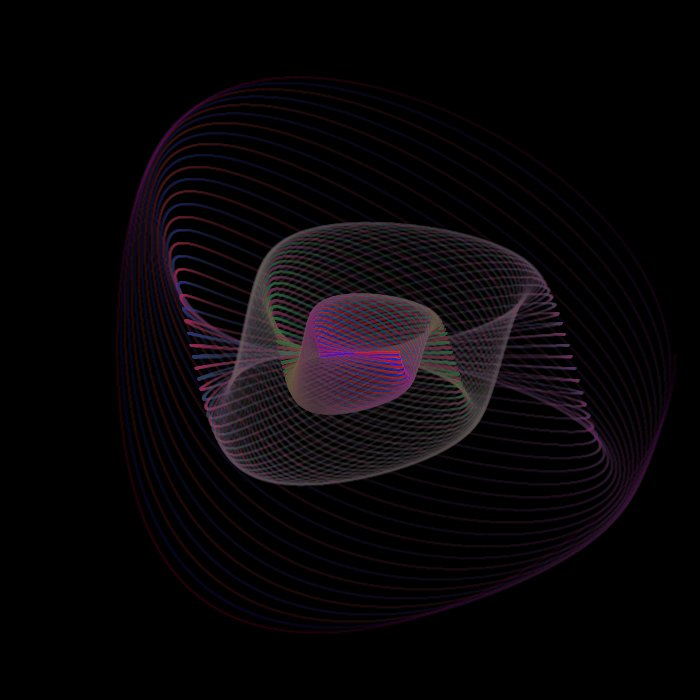
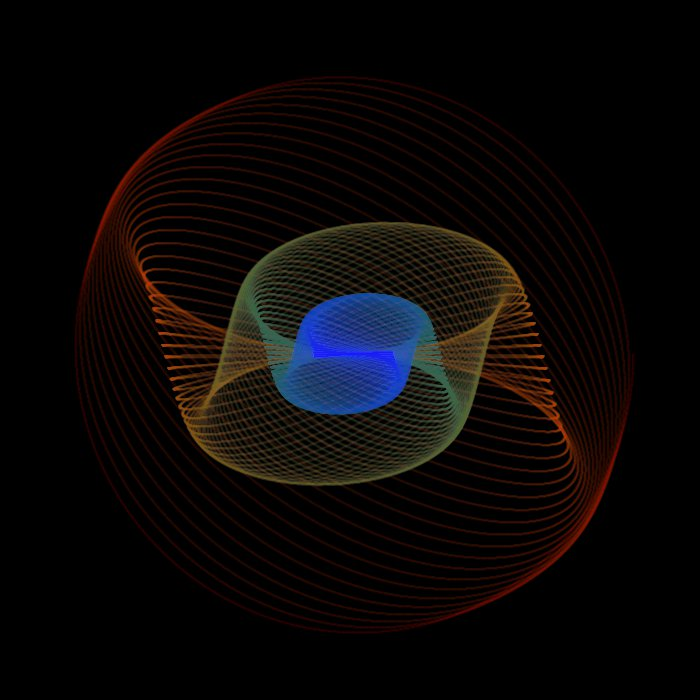
User defined color and coord placement, yey

diff --git a/src/coords_collection.py b/src/coords_collection.py
@@ -4,9 +4,10 @@ import math
 import sys
 import pygame
 from create_coords import COORDS_FUNCTIONS
+from userdefined_coordinate_creators import USER_COORDS_FUNCTIONS
 
 class COORDS:
-    def __init__(self, ins, coords_version = 0, color_version = 0):
+    def __init__(self, ins, coords_version = 0, user_coord = False, color_version = 0, user_color = False):
 
         self.l1_a = float(ins[0])
         self.l2_a = float(ins[1])
@@ -39,8 +40,16 @@ class COORDS:
         self.table_ya = self.table_ya_def
         self.t = 0
 
-        self.coords, self.get_color = COORDS_FUNCTIONS.fetch_functions(self, coords_version, color_version)
-    
+        coords, get_color = COORDS_FUNCTIONS.fetch_functions(self)
+        u_coords, u_get_color = USER_COORDS_FUNCTIONS.fetch_functions(self)
+        if not user_coord:
+            self.coords = coords[coords_version]
+        else:
+            self.coords = u_coords[coords_version]
+        if not user_color:
+            self.get_color = get_color[color_version]
+        else:
+            self.get_color = u_get_color[color_version]
 
     def get_size(self):
         return (self.size_x, self.size_y)

diff --git a/src/graph_simulation.py b/src/graph_simulation.py
@@ -16,6 +16,17 @@ def main():
     pygame.init()
     ins = open(sys.argv[1], "r").readlines()
     outs = sys.argv[2]
+    user_coords = False
+    if sys.argv[3][0] == "u":
+        user_coords = True
+        sys.argv[3] = sys.argv[3][1:]
+        
+    user_color = False
+    if sys.argv[4][0] == "u":
+        user_color = True
+        sys.argv[4] = sys.argv[4][1:]
+        print(sys.argv[4])
+
     version = int(sys.argv[3])
     color_version = int(sys.argv[4])
     strike_through = False
@@ -24,12 +35,12 @@ def main():
         if strike_through_num > 0:
             strike_through = True
 
-    brush_path = "src/yellowbrush.png"
+    brush_path = "src/brush.png"
     if len(sys.argv) > 6:
         brush_path = sys.argv[6] 
 
     
-    simulation = coords_collection.COORDS(ins,version,color_version)
+    simulation = coords_collection.COORDS(ins,version,user_coords,color_version,user_color)
 
     main_screen = pygame.display.set_mode(simulation.get_size())
     main_screen.fill((0, 0, 0))

diff --git a/src/create_coords.py b/src/create_coords.py
@@ -2,7 +2,7 @@
 import math
 
 class COORDS_FUNCTIONS:
-    def fetch_functions(coords, coord_version, color_version):
+    def fetch_functions(coords):
         def c0():
             x = coords.size_x / 2 + (coords.size_x / 2 * ((math.cos(coords.t * coords.p1_t + coords.p1_off)) * coords.p1_a))
             y = coords.size_y / 2 + (coords.size_y / 2 * ((math.sin(coords.t * coords.p2_t + coords.p2_off)) * coords.p2_a))
@@ -62,4 +62,4 @@ class COORDS_FUNCTIONS:
  
         color_d = {0: color0, 1: color1, 2: color2}
         c_d = {0: c0, 1: c1, 2: c2, 3: c3}
-        return c_d[coord_version], color_d[color_version]
+        return c_d, color_d

diff --git a/README.md b/README.md
@@ -10,7 +10,11 @@ While standing in the root directory, run
 `python3 main.py nicesimulations/s14.in pics/newPicture1.jpeg 3 1 0 src/brush.png`
 
 If this works, good.
-`main.py` is the root program, then we have the input simulation settings file (please write your own ones), then the location where to save the outputed image. The first number is which of the coordination generators to use, where `0` is the simplest one. The second number is the color scheme used, where some exists already (like.. 0-2). The third number is how long part-lines should be, where a value of zero gives continuous lines. The last one is if you want to have a custom brush. Remember, its an 8x8 pixel sized png with transperency. The size of the generated image is for now set in the input file, which will be moved later.
+`main.py` is the root program, then we have the input simulation settings file (please write your own ones), then the location where to save the outputed image. The first number is which of the coordination generators to use, where `0` is the simplest one. The second number is the color scheme used, where some exists already (like.. 0-2). The third number is how long part-lines should be, where a value of zero gives continuous lines. Worth noting !If you add your custom coordinate or color to the user_defined file, you can access those by placin a "u" in front of the number!. The last one is if you want to have a custom brush. Remember, its an 8x8 pixel sized png with transperency. The size of the generated image is for now set in the input file, which will be moved later.
 
 The simulation runs to the end, and is exited via the terminal. Crude, but it works.
-Only one color scheme is available for now. Will be customizeable later on.
+Only one color scheme is available for now. Will be customizeable later on (it is now!).
+
+`python3 main.py nicesimulations/s14.in pics/newPicture1.jpeg 3 u0 0 src/brush.png`
+
+This would run a simulation with the third coordinate generator, with a user defined color scheme (number 0).
